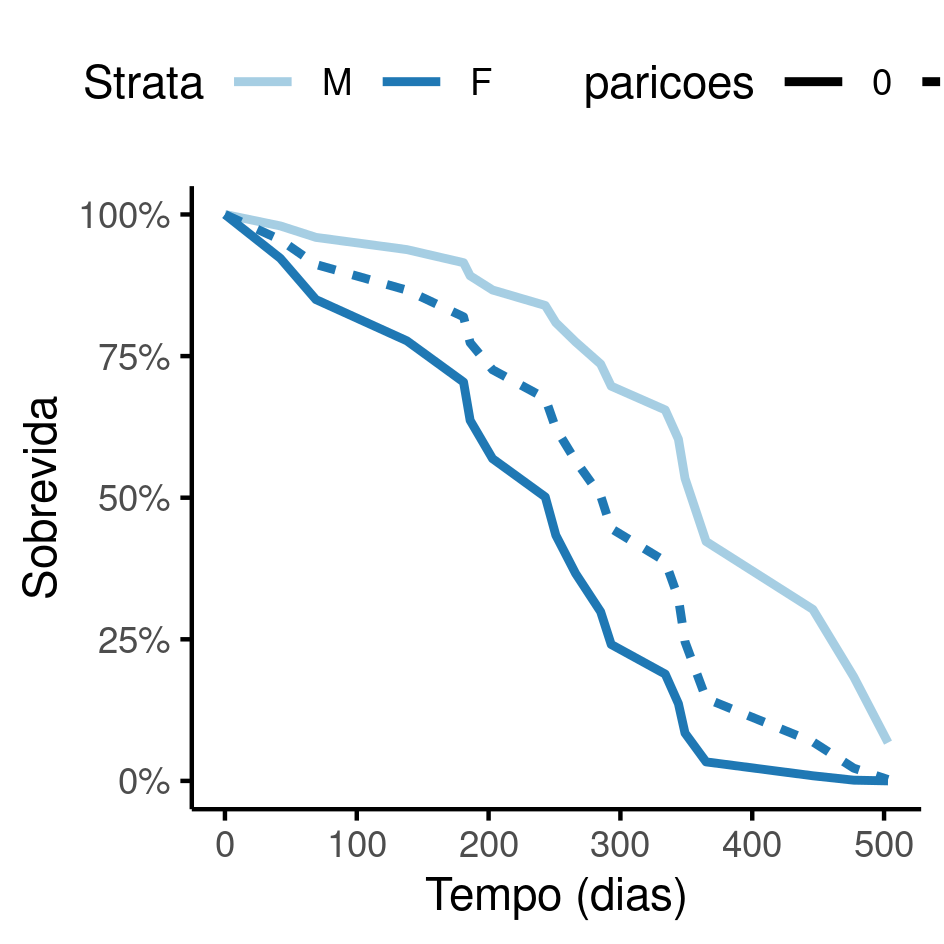
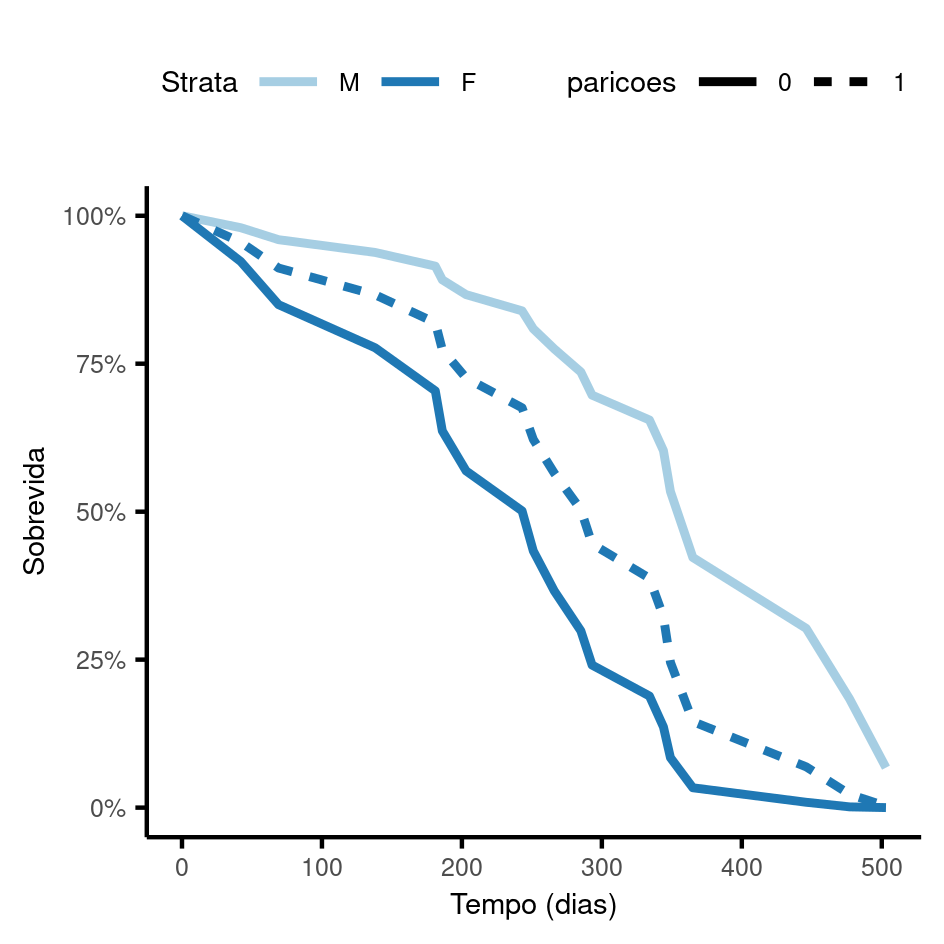
figura 2 atualizada + incluída no report

diff --git a/report/SAR-2021-008-JB-v01.md b/report/SAR-2021-008-JB-v01.md
@@ -133,6 +133,11 @@ O tempo de sobrevida mediano dos machos foi 365.5 e das fêmeas 258.5 dias (Figu
 
 
 
+<div class="figure">
+<img src="../figures/sobrevida.png" alt="**Figura 2** Sobrevida em cativeiro dos espécimes recebidos pelo Programa de Vigilância Epidemiológica de Americana/SP." width="944" />
+<p class="caption">**Figura 2** Sobrevida em cativeiro dos espécimes recebidos pelo Programa de Vigilância Epidemiológica de Americana/SP.</p>
+</div>
+
 # Observações e limitações
 
 # Conclusões
